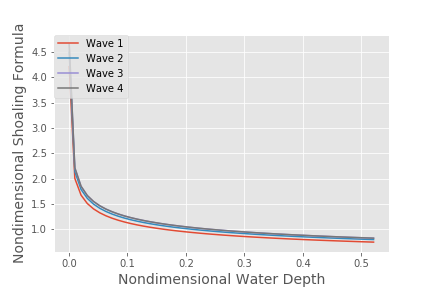
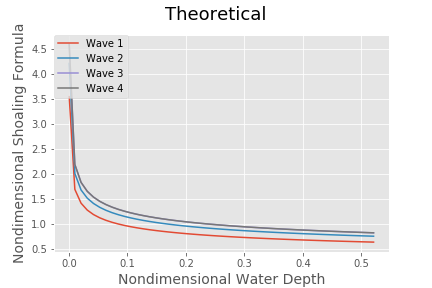
calculated all the k and n values to actually perform the theor

diff --git a/Lab_3.md b/Lab_3.md
@@ -20,13 +20,13 @@ g = pc.gravity
 
 def wavenumber(T, h):
   """Return the wavenumber of wave using period and water height from bed."""
-  k = 11  # this is a guess to find what k is
+  k = 800  # this is a guess to find what k is
   diff = (((2*np.pi)/T)**2)-(g.magnitude * k * np.tanh(k*h))
   while diff<0:
       LHS = ((2*np.pi)/T)**2
       RHS = g.magnitude * k * np.tanh(k*h)
       diff = LHS - RHS
-      k = k - 0.0001
+      k = k - 0.5
   return k
 ```
 
@@ -53,15 +53,13 @@ $$ T = \frac{1}{frequency} $$
 
 Constant width in the flume was assumed.
 
-In shallow water,
+In transitional water,
 
-$$ C_{g0} = C_{p0} $$
+$$ C_{g0} = n_0C_{p0} $$
 $$ C_{p0} = \frac{\lambda_0}{T} $$
-$$ \frac{a(x)}{a_0} = \sqrt(\frac{C_{g0}}{2\sqrt(gh(x))}) $$
+$$ \frac{a(x)}{a_0} = \sqrt(\frac{C_{g0}}{2n_1\sqrt(gh(x))}) $$
 
-In transitional water, $C_{g0}$ changes by
 $$ n = \frac{1}{2}[1 + \frac{2kh}{sinh(2kh)}] $$
-$$ C_{g0} = nC_{p0} $$
 
 # NEED TO FIGURE OUT
 
@@ -112,33 +110,47 @@ T = 1/freq
 
 #this is actually Cp and need to find out Cg
 # find n by doing k = 2pi/lambda0
-Cg0_ms = W_lambda_m/T
-print(Cg0_ms)
+Cp0_ms = W_lambda_m/T
+k_theor_0 = np.array([wavenumber(T[0], SWL_m),
+                      wavenumber(T[1], SWL_m),
+                      wavenumber(T[2], SWL_m),
+                      wavenumber(T[3], SWL_m)])
+
+n_theor_0 = np.array([1/2 * (1 + (2 * k1_theor_0 * SWL_m)/np.sinh(2 * k1_theor_0 * SWL_m)),
+                      1/2 * (1 + (2 * k2_theor_0 * SWL_m)/np.sinh(2 * k2_theor_0 * SWL_m)),
+                      1/2 * (1 + (2 * k3_theor_0 * SWL_m)/np.sinh(2 * k3_theor_0 * SWL_m)),
+                      1/2 * (1 + (2 * k4_theor_0 * SWL_m)/np.sinh(2 * k4_theor_0 * SWL_m))])
+
+Cg0_ms = Cp0_ms * n_theor_0
 
 x_plot_m = np.linspace(-1, 0.001, num = 50)
 h_m_theor = abs(x_plot_m) / 10
-h_nd_theor = h_m/SWL_m
+h_nd_theor = h_m_theor/SWL_m
 
-k1 = np.ones(len(h_m))
-k2 = np.ones(len(h_m))
-k3 = np.ones(len(h_m))
-k4 = np.ones(len(h_m))
+k1_theor = np.ones(len(h_m_theor))
+k2_theor = np.ones(len(h_m_theor))
+k3_theor = np.ones(len(h_m_theor))
+k4_theor = np.ones(len(h_m_theor))
 
-for i in range(0, len(h_m)):
-  k1[i] = wavenumber(T[0], h_m[i])
-  k2[i] = wavenumber(T[1], h_m[i])
-  k3[i] = wavenumber(T[2], h_m[i])
-  k4[i] = wavenumber(T[3], h_m[i])
+for i in range(0, len(h_m_theor)):
+  k1_theor[i] = wavenumber(T[0], h_m_theor[i])
+  k2_theor[i] = wavenumber(T[1], h_m_theor[i])
+  k3_theor[i] = wavenumber(T[2], h_m_theor[i])
+  k4_theor[i] = wavenumber(T[3], h_m_theor[i])
 
-print(k1)
+n1_theor = 1/2 * (1 + (2 * k1_theor * h_m_theor)/np.sinh(2 * k1_theor * h_m_theor))
+n2_theor = 1/2 * (1 + (2 * k2_theor * h_m_theor)/np.sinh(2 * k2_theor * h_m_theor))
+n3_theor = 1/2 * (1 + (2 * k3_theor * h_m_theor)/np.sinh(2 * k3_theor * h_m_theor))
+n4_theor = 1/2 * (1 + (2 * k4_theor * h_m_theor)/np.sinh(2 * k4_theor * h_m_theor))
+
 ```
 Assume that within x = 1, we are in shallow water so Cg = 2sqrt(gh)
 The nondimensional form is calculated by
 ```Python
-W1_amp_nd_theor = np.sqrt(Cg0[0])/((np.sqrt(2))*(g.magnitude * h_m_theor)**(1/4))/10
-W2_amp_nd_theor = np.sqrt(Cg0[1])/((np.sqrt(2))*(g.magnitude * h_m_theor)**(1/4))/10
-W3_amp_nd_theor = np.sqrt(Cg0[2])/((np.sqrt(2))*(g.magnitude * h_m_theor)**(1/4))/10
-W4_amp_nd_theor = np.sqrt(Cg0[3])/((np.sqrt(2))*(g.magnitude * h_m_theor)**(1/4))/10
+W1_amp_nd_theor = np.sqrt(Cg0_ms[0])/((np.sqrt(2))*(g.magnitude * h_m_theor)**(1/4))
+W2_amp_nd_theor = np.sqrt(Cg0_ms[1])/((np.sqrt(2))*(g.magnitude * h_m_theor)**(1/4))
+W3_amp_nd_theor = np.sqrt(Cg0_ms[2])/((np.sqrt(2))*(g.magnitude * h_m_theor)**(1/4))
+W4_amp_nd_theor = np.sqrt(Cg0_ms[3])/((np.sqrt(2))*(g.magnitude * h_m_theor)**(1/4))
 
 plt.plot(h_nd_theor, W1_amp_nd_theor, label = "Wave 1")
 plt.plot(h_nd_theor, W2_amp_nd_theor, label = "Wave 2")
@@ -162,9 +174,9 @@ plt.show()
 
 ```python
 plt.plot(h_nd_exp , W1_amp_nd_exp, 'ro', label = "Wave 1")
-plt.plot(h_nd_exp , W2_amp_nd_exp, 'ro', label = "Wave 2")
-plt.plot(h_nd_exp , W3_amp_nd_exp, 'ro', label = "Wave 3")
-plt.plot(h_nd_exp , W4_amp_nd_exp, 'ro', label = "Wave 4")
+plt.plot(h_nd_exp , W2_amp_nd_exp, 'bo', label = "Wave 2")
+plt.plot(h_nd_exp , W3_amp_nd_exp, 'go', label = "Wave 3")
+plt.plot(h_nd_exp , W4_amp_nd_exp, 'mo', label = "Wave 4")
 plt.xlabel('Nondimensional Water Depth', fontsize=14)
 plt.ylabel('Nondimensional Shoaling Formula', fontsize=14)
 plt.legend(loc='upper left', borderaxespad=0.)
